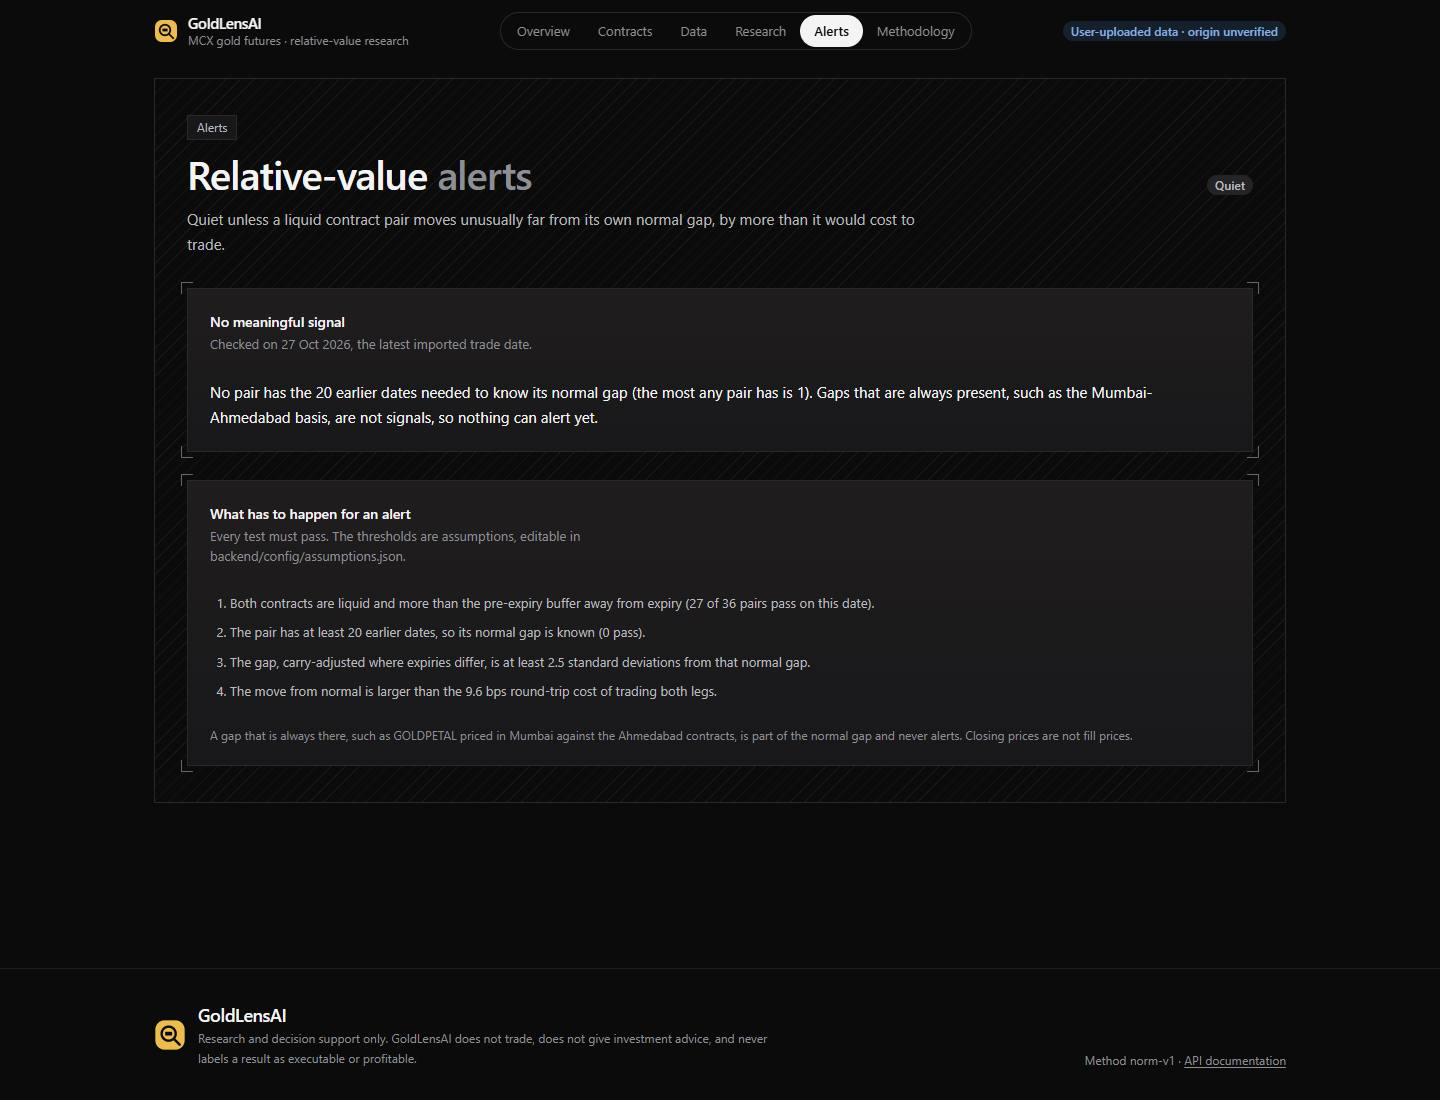
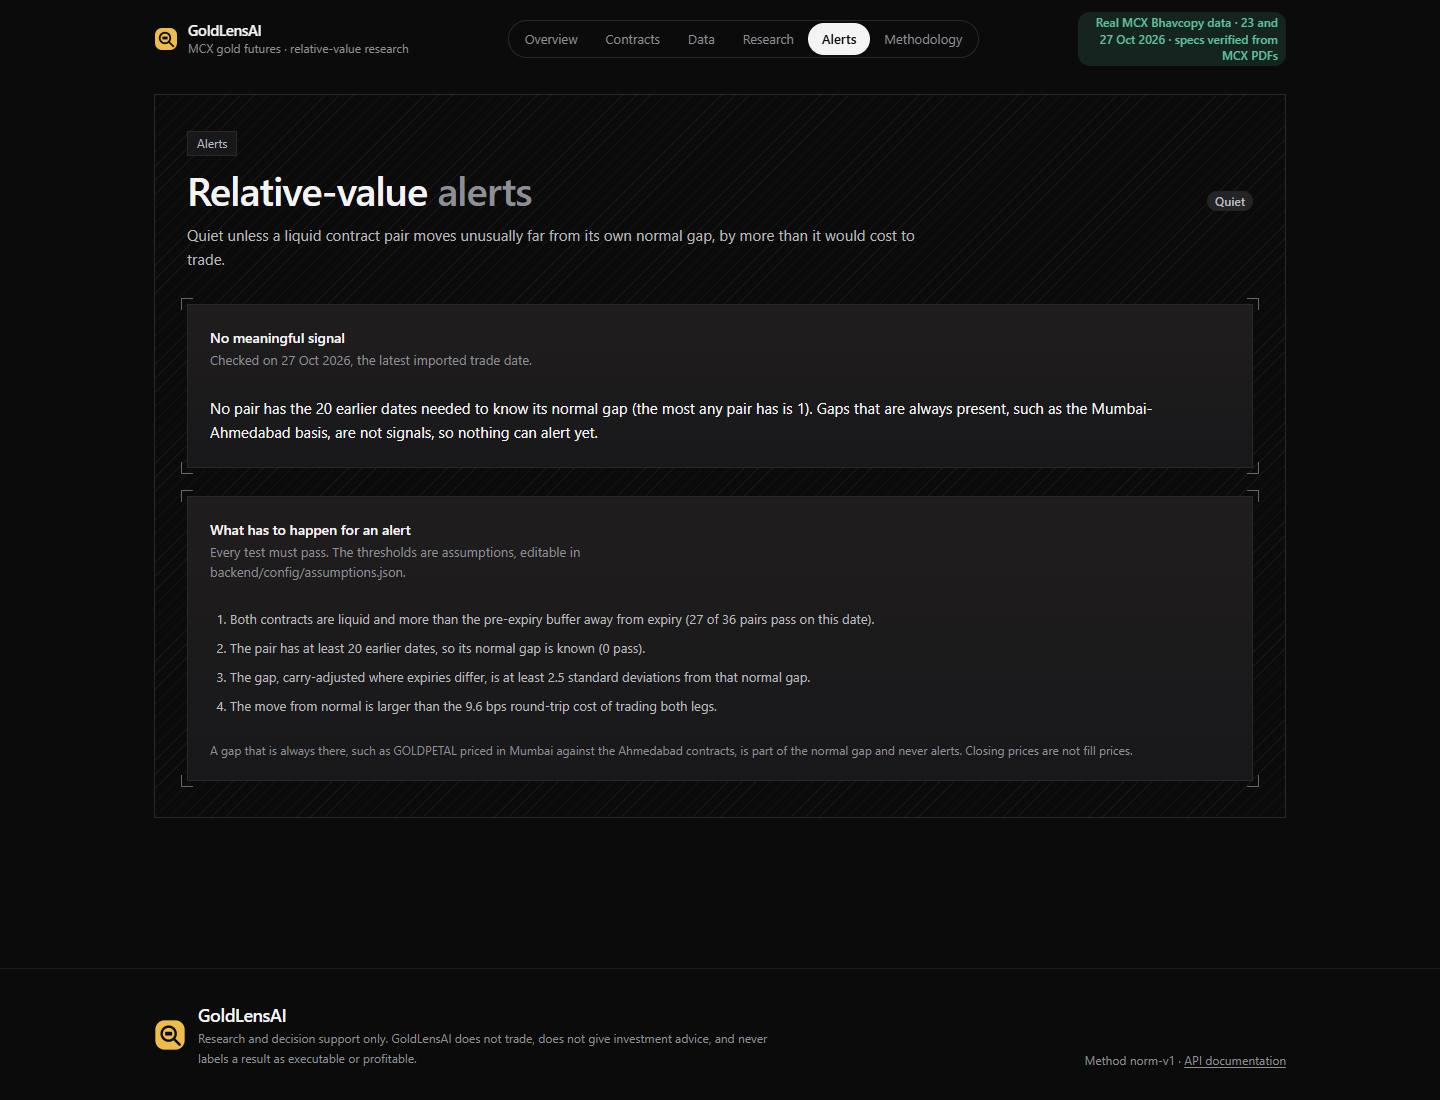
docs: final README, methodology and limitations; screenshots from the live site
README: live URL and GitHub link at the top, key results as shown on the live
site, automatic research and same-day tiles, exact versions, and how to ship
new Bhavcopy days. Methodology covers automatic research, the same-day view
and data labels. Screenshots retaken from https://goldlensai.onrender.com.

diff --git a/README.md b/README.md
@@ -3,6 +3,8 @@
 **Live:** https://goldlensai.onrender.com (Render free plan: the first visit after a quiet spell
 can take about a minute while the server wakes up.)
 
+**Code:** https://github.com/Parth121105/GoldLensAI
+
 Relative-value research on MCX gold futures: GOLDM, GOLDTEN, GOLDGUINEA and GOLDPETAL.
 Research and decision support only. It does not trade and is not investment advice.
 
@@ -28,10 +30,13 @@ difference is a tradeable edge after costs and on unseen data, and say so honest
    with the carry over the expiry difference removed. Day-to-day moves are split into gold
    move, roll-down, curve change and residual.
 4. **Signal.** A z-score of each fixed pair's gap against its own trailing baseline, using only
-   earlier dates.
+   earlier dates. Until a pair has about 20 trading days, the app shows what the loaded days
+   support on their own (carry-adjusted gaps and each expiry's distance from its carry line)
+   and says what more data unlocks.
 5. **Walk-forward with no look-ahead.** Parameters are chosen on training windows only (three
    folds), then tested once on a final 30% holdout. Outcomes never cross into a later window,
-   and signal events never overlap.
+   and signal events never overlap. On real data it runs automatically at startup and after
+   every upload, with the default horizon and the assumed costs.
 6. **Cost gating.** A deviation counts only if it beats the round-trip cost of trading both legs.
    Costs, liquidity limits and alert thresholds are editable assumptions in
    [`backend/config/assumptions.json`](backend/config/assumptions.json).
@@ -54,8 +59,9 @@ to mid 2027 only.
 
 - **Relative value (real data, 27 Oct 2026):** same-expiry gaps run from −37 to −5 bps. For
   example, GOLDTEN against GOLDPETAL (November) is −34.8 bps, part of which is the
-  Mumbai–Ahmedabad location difference. GOLDM against GOLDTEN looks like +19 to +26 bps raw,
-  but carry-adjusted it is about +6.5 bps; the rest is the expiry difference.
+  Mumbai–Ahmedabad location difference. GOLDM against GOLDTEN (the two nearest expiry
+  pairings) looks like +19 to +26 bps raw, but carry-adjusted it is about +6.3 to +6.8 bps;
+  the rest is the expiry difference.
 - **Carry:** about 12% a year (12.0–12.7% across contracts and days). A cross-check against the
   raw closing prices gives the same figure to within 0.2 percentage points.
 - **Move split, 23 to 27 Oct:** gold moved +148 bps; roll-down about −13 bps; residuals within
@@ -63,11 +69,12 @@ to mid 2027 only.
 - **Lifecycle:** on 27 Oct, the GOLDTEN, GOLDGUINEA and GOLDPETAL October contracts were three
   trading days from expiry, with their tender period starting the next day. GOLDTEN only began
   trading in 2025.
-- **Engine check on synthetic data** (clearly labelled, generated in memory, 1,432 days): it
-  caught 84% of injected mispricings, with false alarms on 0.24% of clean points. Holdout:
-  166 trades, +21.8 bps per trade before costs and +12.2 bps after 9.6 bps round-trip costs.
-  Correlation with the gold price move: 0.00. On the same market with nothing injected, no
-  pair is validated (mean −3.8 bps per trade after costs).
+- **Engine check on synthetic data** (clearly labelled, generated in memory, 1,432 days; not
+  market data): it caught 84% of injected mispricings (106 of 126), with false alarms on
+  0.24% of clean points. Holdout: 166 trades, +21.8 bps per trade before costs and
+  **+12.2 bps net** after 9.6 bps round-trip costs, all 6 pairs validated. Correlation with
+  the gold price move: 0.00. The control run on the same market with nothing injected finds
+  no edge: 0 of 6 pairs validated, −3.8 bps per trade after costs.
 - **Verdict on real data:** *Insufficient data.* Each pair has 2 of the 686 eligible dates the
   walk-forward needs. **No edge is claimed.** The problem statement accepts a rigorous "no
   persistent edge shown" as a valid outcome.
@@ -84,10 +91,11 @@ to mid 2027 only.
 
 ## Tech stack
 
-- **Backend:** Python 3.13+ (deployed on 3.14.8), FastAPI 0.162, Pydantic 2.14, Uvicorn 0.54,
-  pytest 9.1
-- **Frontend:** Node 24, React 19.3, TypeScript 6.0, Vite 8.3, Tailwind CSS 4.3, Motion 14.6,
-  GSAP 3.15, lucide-react, oxlint 1.89
+- **Backend:** Python 3.13+ (deployed on 3.14.8), FastAPI 0.162, Starlette 1.10, Pydantic 2.14,
+  Uvicorn 0.54, pytest 9.1
+- **Frontend:** Node 24 (deployed on 24.22.1), React 19.3, TypeScript 6.0, Vite 8.3,
+  Tailwind CSS 4.3, Motion 14.6, GSAP 3.15, lucide-react 1.62, oxlint 1.89
+- **CI:** GitHub Actions runs the backend tests, then the frontend lint and build, on every push
 - **Hosting:** one free Render web service ([`render.yaml`](render.yaml)). FastAPI serves the API
   under `/api` and the built frontend at every other path.
 
@@ -116,7 +124,8 @@ npm run dev
 Open http://localhost:5173. The real data is bundled in `backend/data/seed/` and loads the first
 time the server starts with an empty store.
 
-To run the production build the way Render does: `bash scripts/render-build.sh`, then
+To run the production build the way Render does: `bash scripts/render-build.sh` (it also
+precomputes the synthetic validation, which takes minutes on Render's free CPU), then
 `cd backend && python -m uvicorn app.main:app --port 8000`, and open http://localhost:8000.
 
 ## Adding new Bhavcopy files
@@ -127,7 +136,11 @@ To run the production build the way Render does: `bash scripts/render-build.sh`,
 2. Put the files in `backend/data/raw/bhavcopy/` (git-ignored).
 3. From `backend/`, run `python -m app.cli import-dir data/raw/bhavcopy`. Only the gold futures
    rows are kept and saved to `backend/data/store/`, and a day already held is skipped.
-4. Restart the server. You can also upload files one at a time on the Data page.
+4. Restart the server; research reruns on the new data at startup. You can also upload files
+   one at a time on the Data page; those are labelled "User-uploaded · origin unverified".
+5. To ship new days with the app, copy the new JSON files from `backend/data/store/` into
+   `backend/data/seed/store/` (about 18 KB per day, gold rows only) and commit them. A deploy
+   starts with an empty disk and loads the seed folder.
 
 Contract expiries outside the verified specifications are shown but not normalized. To cover
 them, add the MCX specification PDF to `backend/data/raw/specs/` and its values to

diff --git a/docs/methodology.md b/docs/methodology.md
@@ -80,3 +80,31 @@ An alert fires on the latest date only if all of these hold:
 2. The pair has 20 earlier dates.
 3. The carry-adjusted gap is at least 2.5 standard deviations from the pair's own normal gap.
 4. The move exceeds the round-trip cost.
+
+## 8. When research runs, and what shows before a baseline exists
+
+Research runs on real data without being asked: at startup on the bundled files, and after
+every upload, with the default horizon (5) and the costs in the assumptions file. The
+Research page can run it again with other settings. Synthetic data is only researched on
+request.
+
+A pair needs about 20 eligible dates before its normal gap, and a z-score against it, means
+anything (the same 20 the alerts use). Until then the Overview shows, for the selected pair
+on the latest date:
+
+- the carry-adjusted gap of the nearest expiries outside the 7-day buffer;
+- the largest distance of any expiry from its own contract's fitted carry line
+  (the residual of ln P = a + b·T);
+- the same two contracts' gap on each loaded date, and every expiry pairing's gap that day;
+- one line on what more data unlocks.
+
+The z-score gauge, spread-versus-baseline chart, normal band and daily deviation bars
+replace these automatically once the pair has 20 eligible dates and a baseline.
+
+## 9. Data labels
+
+The real MCX Bhavcopy rows committed with the app (`backend/data/seed/store/`, recognised by
+the SHA-256 of the source file) are labelled "Real MCX Bhavcopy data · dates · specs
+verified from MCX PDFs". Files uploaded in the browser are labelled "User-uploaded · origin
+unverified", because the app cannot check where they came from. Synthetic data is labelled
+synthetic on every page and is never mixed with either.

diff --git a/docs/limitations.md b/docs/limitations.md
@@ -37,3 +37,7 @@
 - On Render's free tier the disk is not persistent. Files uploaded through the app are lost on
   redeploy or spin-down; the bundled real data in `backend/data/seed/` is reloaded at startup.
 - There is one shared session and no user accounts.
+- Research on real data runs at startup and after each upload. With about three years of
+  daily files it would take noticeably longer, and startup would wait for it.
+- The synthetic validation is computed once during the deploy build. Without that file the
+  endpoint computes it on request, which takes minutes on Render's free CPU.

diff --git a/docs/data-import.md b/docs/data-import.md
@@ -146,6 +146,11 @@ time, row counts, the trade dates covered, and coverage per contract. Each
 contract is identified as `SYMBOL-EXPIRY` and is never spliced with other
 expiries.
 
+The two real Bhavcopies bundled with the app are labelled "Real MCX Bhavcopy data"; any
+file uploaded in the browser is labelled "User-uploaded · origin unverified", since the app
+cannot confirm it came from MCX. After an upload of real data, research runs again
+automatically.
+
 ## Synthetic files
 
 Files whose names start with `SYNTHETIC_` are reported as `synthetic: true`.
